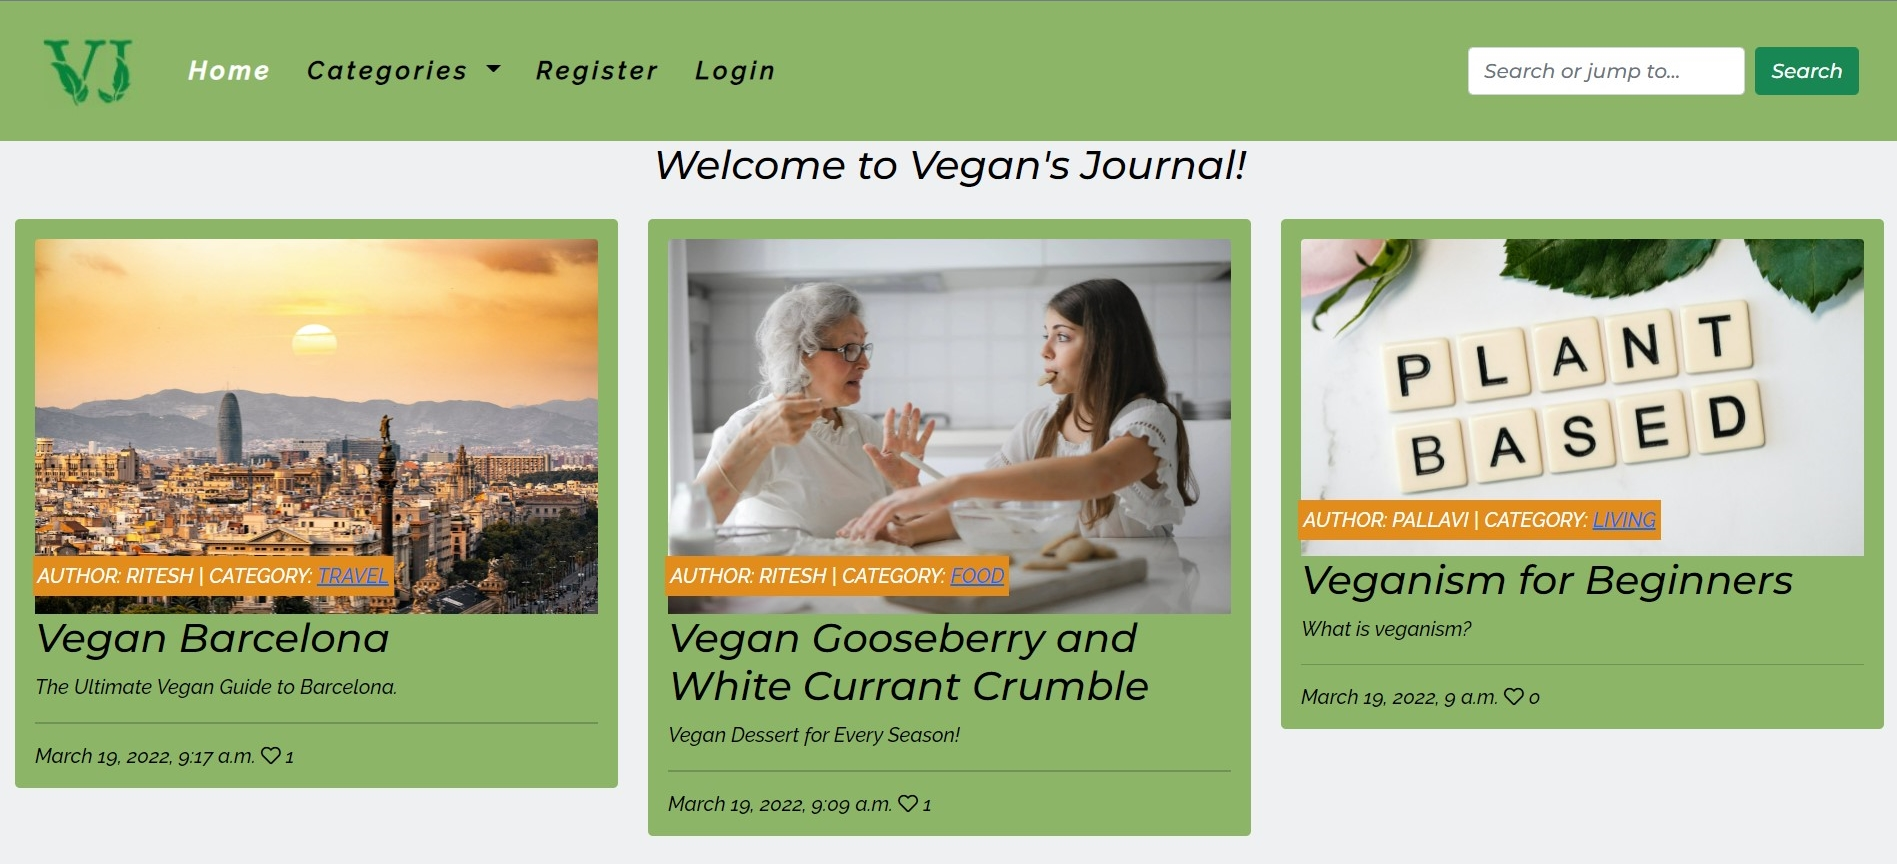
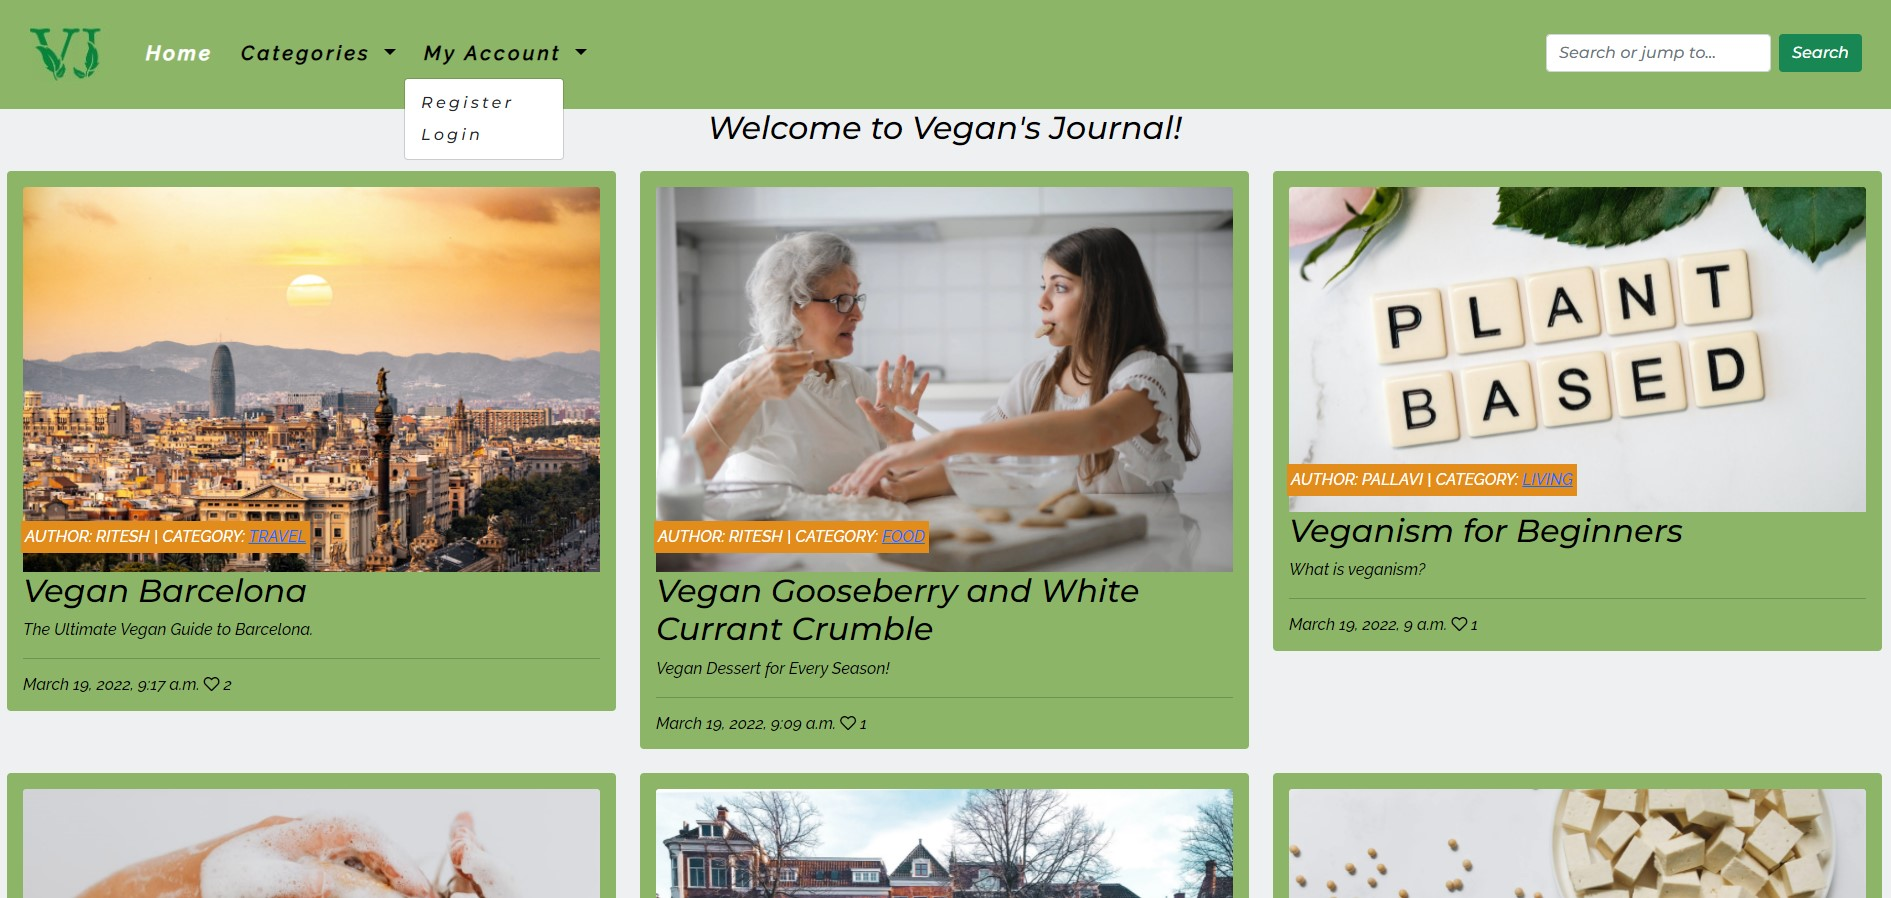
Update readme with new images

diff --git a/templates/base.html b/templates/base.html
@@ -86,7 +86,6 @@
                         </ul>
                     </li>                            
                     {% else %}
-
                     <li class="nav-item dropdown">
                         <a class="nav-link dropdown-toggle" id="navbarDropdown" role="button" data-bs-toggle="dropdown" aria-expanded="false">
                           My Account
@@ -100,12 +99,6 @@
                             </li>
                         </ul>
                     </li>  
-                    <!-- <li class="nav-item">
-                        <a class="nav-link {% if request.resolver_match.url_name == 'account_signup' %} active {% endif %}" href="{% url 'account_signup' %}">Register</a>
-                    </li>
-                    <li class="nav-item">
-                        <a class="nav-link {% if request.resolver_match.url_name == 'account_login' %} active {% endif %}" href="{% url 'account_login' %}">Login</a>
-                    </li> -->
                     {% endif %}
                 </ul>
                 {% if user.is_authenticated %}
